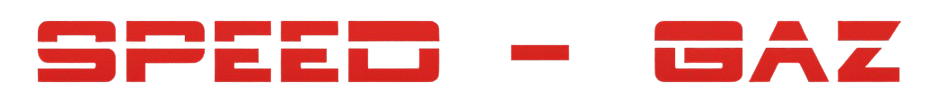
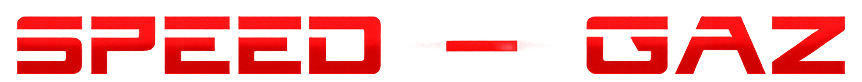
Add files via upload

diff --git a/style.css b/style.css
@@ -120,6 +120,7 @@ nav{
   border-bottom:1px solid #222;
 padding:10px;
 text-align:center;
+  margin-top:10px;
 }
 
 nav a{
@@ -176,6 +177,17 @@ footer a:hover{
   color:#ff2a2a;
 }
 
+.tagline{
+  margin:10px auto 10px;
+  font-size:16px;
+    color:#ffd500;
+  text-align:center;
+  max-width:600px;
+    text-shadow:0 0 6px rgba(255,213,0,0.4);
+      font-weight:600;
+  letter-spacing:0.5px;
+}
+
 .top{
   display:flex;
   align-items:center;
@@ -184,6 +196,9 @@ footer a:hover{
   padding:10px 20px;
  border-bottom:1px solid #1a1a1a;
  position:relative;
+ min-height:auto;
+ overflow:hidden;
+  justify-content:center;
 }
 .top:hover{
   background:#050505;
@@ -195,6 +210,8 @@ footer a:hover{
   margin-left:30px;
   align-items:center;
   flex-shrink:0;
+    position:absolute;
+  left:20px;
 }
 
 .left:hover img{
@@ -212,7 +229,30 @@ footer a:hover{
 }
 
 .logo{
-  height:65px;
+  max-width:700px;
+  width:100%;
+  height:auto;
+  animation:logoPulse 3.5s ease-in-out infinite;
+  transition:0.3s;
+}
+
+.logo:hover{
+  transform:scale(1.05);
+  filter:drop-shadow(0 0 12px rgba(255,0,0,0.6));
+}
+
+@keyframes logoPulse{
+  0%,100%{
+    filter: drop-shadow(0 0 5px rgba(100,0,0,0.4));
+  }
+
+  40%{
+    filter: drop-shadow(0 0 12px rgba(180,0,0,0.7));
+  }
+
+  60%{
+    filter: drop-shadow(0 0 20px rgba(255,0,0,1));
+  }
 }
 
 .auto{
@@ -220,13 +260,17 @@ footer a:hover{
   right:30px;
   flex-shrink:0;
   margin-right:10px;
+    position:absolute;
+  right:20px;
 }
 
 .center{
   display:flex;
   flex-direction:column;
   align-items:center;
-    flex:1;
+   flex:1;
+   flex-direction:column;
+  gap:5px;
 }
 
 .oferta{
@@ -251,18 +295,36 @@ footer a:hover{
 
 
 .box{
-  background:#8b0000;
   color:white;
   padding:15px;
   border-radius:10px;
   margin-top:10px;
   transition:0.3s;
-  box-shadow:0 4px 10px rgba(0,0,0,0.4);
+    box-shadow:0 6px 18px rgba(0,0,0,0.6),
+             0 0 10px rgba(255,0,0,0.2);
 }
 
 .box:hover{
   background:#ff26009d;
   transform:translateY(-3px) scale(1.02);
+    box-shadow:0 10px 30px rgba(0,0,0,0.8),
+             0 0 15px rgba(255,0,0,0.4);
+}
+
+.box:nth-child(odd){
+  background:#7a0000;
+}
+
+.box:nth-child(even){
+  background:#b30000;
+}
+
+.box:nth-child(odd):hover{
+  background:#7a0000;
+}
+
+.box:nth-child(even):hover{
+  background:#b30000;
 }
 
 .klik{
@@ -286,14 +348,6 @@ footer a:hover{
   transition:max-height 0.3s ease;
 }
 
-.center{
-  position:absolute;
-  left:50%;
-  transform:translateX(-50%);
-  display:flex;
-  flex-direction:column;
-  align-items:center;
-}
 
 section h1{
   text-align:center;
@@ -310,16 +364,36 @@ section p{
   color:#d6d6d6;
 }
 
+h2::after{
+  content:"";
+  display:block;
+  height:2px;
+  width:60%;
+  margin:10px auto 20px;
+  border-radius:2px;
+
+  background:linear-gradient(
+    90deg,
+    #7a0000,
+    #888,
+    #fff,
+    #888,
+    #7a0000
+  );
+
+  background-size:200% 100%;
+  animation:glowLine 3s ease-in-out infinite;
+}
  
+@keyframes glowLine{
+  0%{ background-position:0% 50%; }
+  50%{ background-position:100% 50%; }
+  100%{ background-position:0% 50%; }
+}
 
 
 
   @media (max-width:900px){
-  nav a{
-    display:block;
-    margin:10px 0;
-  }
-
   .uslugi{
     grid-template-columns:1fr;
   }
@@ -347,6 +421,8 @@ section p{
   }
 
   .center{
+    position:static;
+    transform:none;
     width:100%;
   }
 
@@ -358,8 +434,36 @@ section p{
     width:90%;
     text-align:center;
   }
-}
+
+  nav{
+    display:grid;
+    grid-template-columns:1fr 1fr;
+    gap:10px;
+    padding:15px;
+  }
+
+  nav a{
+    display:block;
+    background:#4b4949;
+    padding:12px;
+    border-radius:10px;
+    text-align:center;
+    font-size:16px;
+    font-weight:bold;
+  }
+
+  nav a:hover{
+    background:#7a0202;
+    transform:scale(1.03);
+  }
 
 footer a{
   -webkit-tap-highlight-color: transparent;
 }
+
+  .tagline{
+    font-size:14px;
+    padding:0 10px;
+  }
+}
+

diff --git a/index.html b/index.html
@@ -31,9 +31,12 @@
 
 </header>
 
+<p class="tagline">
+Profesjonalny montaż i serwis instalacji LPG oraz naprawy samochodowe, Speed Gaz – Oława i okolice
+</p>
 
 <nav>
-<a href="uslugi/">Usługi</a></a>
+<a href="uslugi/">Usługi</a>
 <a href="#warsztat">Warsztat</a>
 <a href="zdjecia/index.html">Zdjęcia</a>
 <a href="#kontakt">Kontakt</a>
@@ -113,7 +116,8 @@ Warsztat SPEED GAZ w Oławie oferuje <strong>profesjonalny montaż instalacji LP
 <h2>Kontakt</h2>
 
 <p><strong>Adres:</strong> ul. 3 Maja 26, Oława</p>
-<p><strong>Telefon:</strong> <a href="tel:607840962">607840962</a></p>
+<p><strong>Telefon:</strong> <a href="tel:607840962">Paweł: 607840962</a></p>
+<p><strong>Telefon:</strong> <a href="tel:570385932">Szczepan: 570385932</a></p>
 <p><strong>Godziny otwarcia:</strong> Pon-Pt 8:00-17:00</p>
 
 <div style="margin-top:20px;">

diff --git a/uslugi/index.html b/uslugi/index.html
@@ -23,7 +23,7 @@
 
 <section>
 
-<h1>Profesjonalny montaż i serwis Instalacji LPG oraz Warsztat – Oława i okolice</h1>
+<h1>Speed-Gaz: Profesjonalny montaż i serwis Instalacji LPG oraz Warsztat – Oława i okolice</h1>
 
 <p>
 Speed Gaz z Oławy oferuje kompleksowe usługi związane z montażem instalacji LPG, diagnostyką komputerową oraz naprawą samochodów osobowych. 
